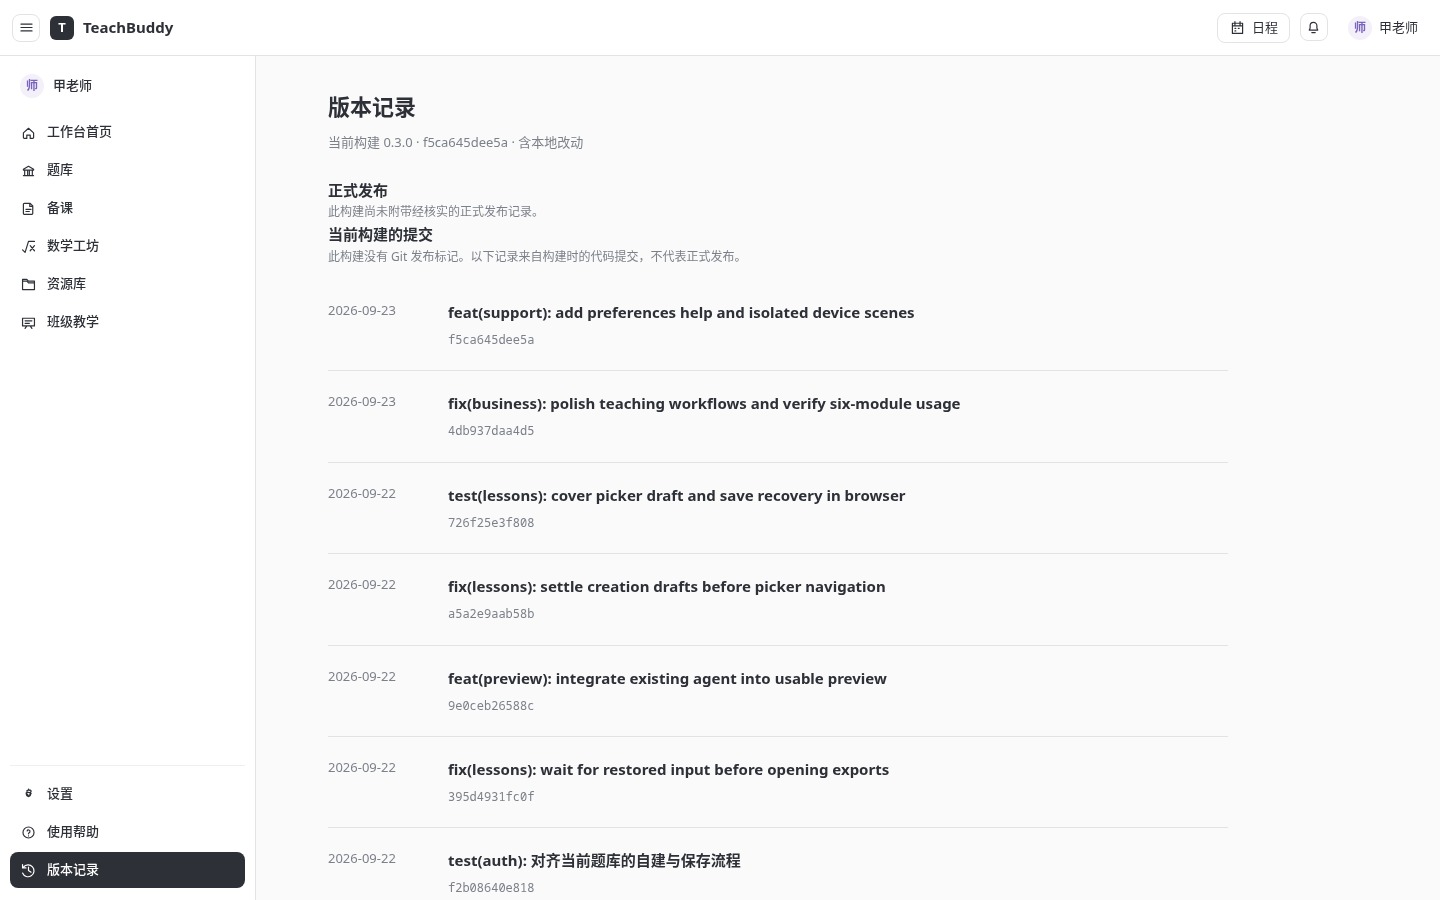
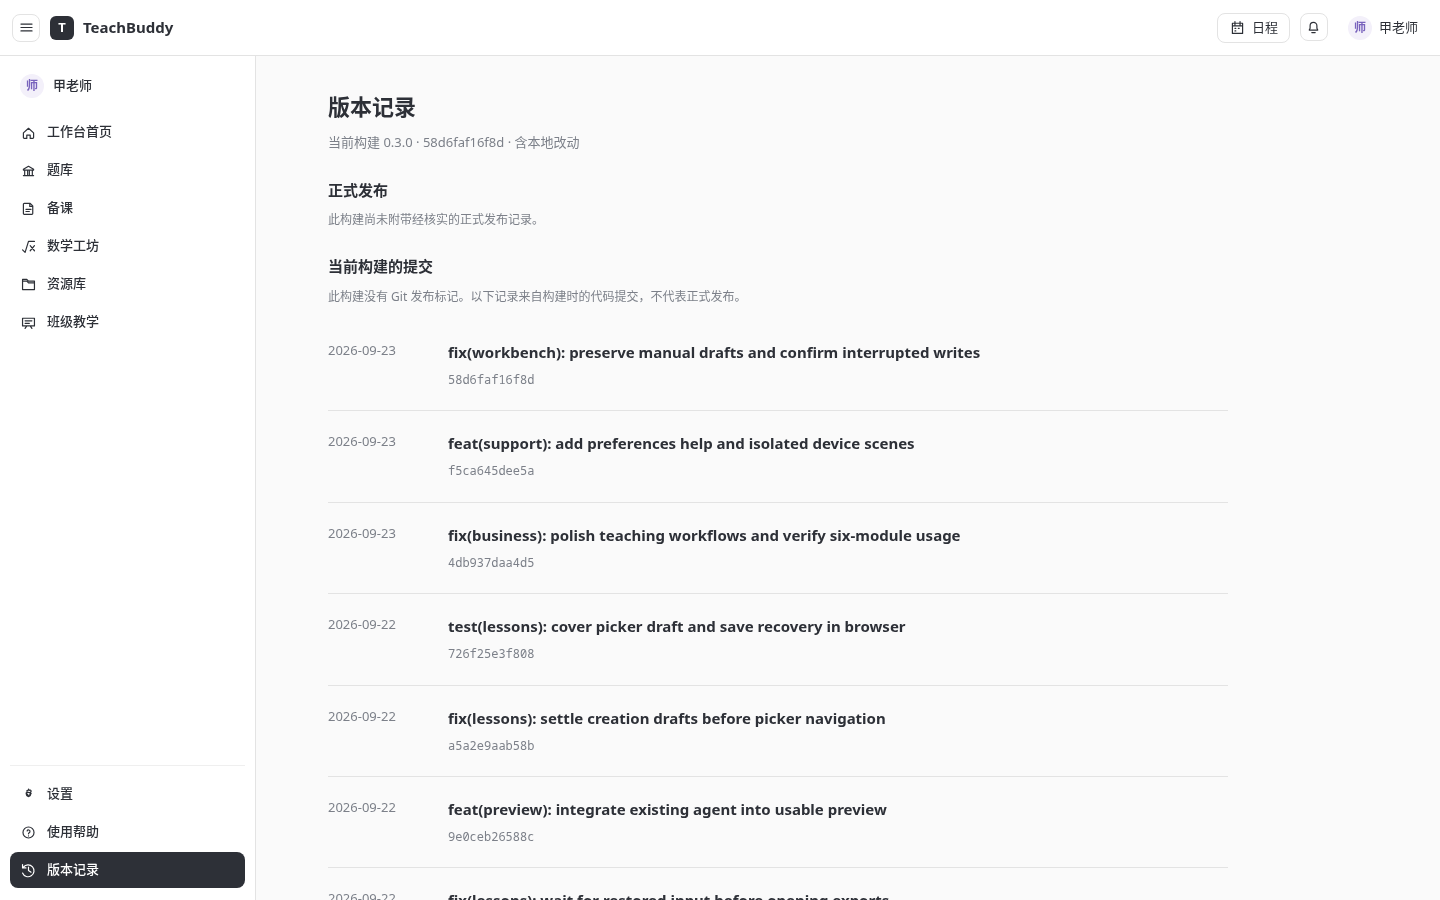
fix(workbench): refresh foreground views without replacing local edits

diff --git a/apps/web/e2e/manual-support/support.spec.js b/apps/web/e2e/manual-support/support.spec.js
@@ -415,3 +415,28 @@ test('数学 HTML 上传重开后校验原文件并以原键确认', async ({ pa
   await expect(page.getByLabel('作品名称')).toHaveValue('课堂演示.html');
   await expect(page.getByRole('button', { name: '重选原文件并确认上传' })).toHaveCount(0);
 });
+
+test('返回备课标签页读取最新内容，有本地修改时只显示对照', async ({ page, context }) => {
+  await page.getByRole('link', { name: '备课', exact: true }).click();
+  await page.getByRole('button', { name: '新建备课', exact: true }).click();
+  await page.getByLabel('课题', { exact: true }).fill('前台刷新基线');
+  await page.getByRole('button', { name: '保存', exact: true }).click();
+  await expect(page.locator('[data-save-status]')).toContainText('已保存');
+  const second = await context.newPage(); await second.goto(page.url());
+  await second.getByLabel('课题', { exact: true }).fill('另一标签的第一版');
+  await second.getByRole('button', { name: '保存', exact: true }).click();
+  await expect(second.locator('[data-save-status]')).toContainText('已保存');
+  await page.bringToFront();
+  await page.evaluate(() => window.dispatchEvent(new Event('focus')));
+  await expect(page.getByLabel('课题', { exact: true })).toHaveValue('另一标签的第一版');
+  await page.getByLabel('课题', { exact: true }).fill('当前标签未保存稿');
+  await second.bringToFront();
+  await second.getByLabel('课题', { exact: true }).fill('另一标签的第二版');
+  await second.getByRole('button', { name: '保存', exact: true }).click();
+  await expect(second.locator('[data-save-status]')).toContainText('已保存');
+  await page.bringToFront();
+  await page.evaluate(() => window.dispatchEvent(new Event('focus')));
+  await expect(page.getByLabel('课题', { exact: true })).toHaveValue('当前标签未保存稿');
+  await expect(page.locator('[data-region="conflict"]')).toBeVisible();
+  await second.close();
+});

diff --git a/apps/web/src/features/schedule/index.jsx b/apps/web/src/features/schedule/index.jsx
@@ -1,4 +1,5 @@
 import { useIdempotentSubmit } from '../workbench/useIdempotentSubmit.js';
+import { useForegroundRefresh } from '../workbench/useForegroundRefresh.js';
 /**
  * Schedule module entry: the single top-level 日程 page.
  *
@@ -357,7 +358,7 @@ export default function SchedulePage({ route }) {
     openEditor(editorState({ mode: 'create', drafts: { group: draft, instance: null } }));
   }
 
-  async function openEntry(entryId, originDate = null) {
+  async function openEntry(entryId, originDate = null, background = false) {
     try {
       const entry = await api.getEntry(entryId);
       let content = null;
@@ -381,6 +382,7 @@ export default function SchedulePage({ route }) {
       const instanceDraft = originDate === null
         ? null
         : draftFromContent({ ...base, content, weekly: false });
+      if (!alive.current || (background && (editorRef.current?.entryId !== entryId || editorRef.current?.pending || saveRunning.current))) return;
       openEditor(editorState({
         mode: 'entry',
         entryId,
@@ -393,7 +395,7 @@ export default function SchedulePage({ route }) {
         drafts: { group: groupDraft, instance: instanceDraft },
         baseline: { group: groupDraft, instance: instanceDraft }
       }));
-      if (shell.openPanel) {
+      if (!background && shell.openPanel) {
         shell.openPanel('schedule');
         shell.setPanelMode?.('schedule');
       }
@@ -401,6 +403,13 @@ export default function SchedulePage({ route }) {
       setError(problem.problem ?? { message: '安排读取失败' });
     }
   }
+
+  useForegroundRefresh(async () => {
+    if (!alive.current || saveRunning.current) return;
+    reload();
+    const current = editorRef.current;
+    if (current?.entryId && !current.pending) await openEntry(current.entryId, current.originDate, true);
+  });
 
   useEffect(() => {
     const query = new URLSearchParams(route?.search ?? '');

diff --git a/apps/web/src/features/math/index.jsx b/apps/web/src/features/math/index.jsx
@@ -5,6 +5,7 @@ import { ShellContext } from "../workbench/shellContext.js";
 import { MathTools, MathIntegration } from "./Integration.jsx";
 import { uploadDraft } from "./uploadDraft.js";
 import { reselectDeviceFile } from '../workbench/deviceRequestStore.js';
+import { useForegroundRefresh } from '../workbench/useForegroundRefresh.js';
 import DynamicPreview from "./DynamicPreview.jsx";
 import DynamicTools from "./DynamicTools.jsx";
 import HtmlEditor from "./HtmlEditor.jsx";
@@ -347,6 +348,8 @@ function MathSession({ transport, route }) {
     }
   }
   const inFlight = useRef(null);
+  const liveSave = useRef({ pending, status });
+  liveSave.current = { pending, status };
   const generation = useRef(0),
     draftRef = useRef(draft);
   draftRef.current = draft;
@@ -447,6 +450,18 @@ function MathSession({ transport, route }) {
       if (epoch === generation.current) handleError(e);
     }
   }
+  useForegroundRefresh(async () => {
+    if (!account || locked || inFlight.current) return;
+    const started = draftRef.current;
+    const epoch = generation.current;
+    await refresh();
+    if (!started?.id) return;
+    const saved = await mathRequest(`${base}/${started.id}`);
+    if (epoch !== generation.current || draftRef.current !== started || inFlight.current || liveSave.current.pending) return;
+    if (saved.version === started.version) return;
+    if (liveSave.current.status === '已保存') setDraft(saved);
+    else { setConflict(saved); setMessage('服务器内容已变化，本地稿保留，请对照当前版本'); }
+  });
   useEffect(() => {
     if (account) refresh();
   }, [search, deleted, account]);

diff --git a/apps/web/src/features/questions/MaterialsQuestionsPage.jsx b/apps/web/src/features/questions/MaterialsQuestionsPage.jsx
@@ -3,6 +3,7 @@ import React, { useEffect, useRef, useState } from "react";
 import { questionDocuments, supportedDocument } from "@refatos/shared";
 import { DocumentEditor, DocumentView } from "../workbench/materials/index.js";
 import { readLocal, writeLocal, removeLocal } from "../workbench/storage.js";
+import { useForegroundRefresh } from '../workbench/useForegroundRefresh.js';
 import {
   get,
   write,
@@ -138,6 +139,20 @@ export default function MaterialsQuestionsPage({
   const editorRef = useRef(null);
   editorRef.current = {value, scene, localKey};
   const refreshSequence = useRef(0);
+  const viewRef = useRef({ scene, value, busy });
+  viewRef.current = { scene, value, busy };
+  useForegroundRefresh(async () => {
+    if (viewRef.current.busy || pending.current) return;
+    const started = viewRef.current;
+    await refresh();
+    if (!started.scene.id) return;
+    const server = await get(`/${started.scene.kind === 'import' ? 'imports' : 'items'}/${started.scene.id}`);
+    const current = viewRef.current;
+    if (!alive.current || current.busy || pending.current || current.scene.id !== started.scene.id || current.scene.kind !== started.scene.kind) return;
+    const draft = readLocal(accountKey, localKey);
+    if (!draft) setValue(server);
+    else if (draft.version !== server.version) setConflict(server);
+  });
   const change = (next) => {
     setValue(next);
     writeLocal(accountKey, localKey, next);

diff --git a/apps/web/src/features/workbench/workbench.css b/apps/web/src/features/workbench/workbench.css
@@ -1737,7 +1737,8 @@
 .wb-help-article ol { margin: 20px 0; padding-left: 22px; }
 .wb-help-article li { margin-bottom: 18px; line-height: 1.8; }
 .wb-release-list { padding: 0; list-style: none; max-width: 900px; }
-.wb-release-list li { display: grid; grid-template-columns: 100px minmax(0, 1fr); gap: 20px; padding: 20px 0; border-bottom: 1px solid var(--wb-line); }
+.wb-releases > h2 { margin: 24px 0 8px; }
+.wb-release-list > li { display: grid; grid-template-columns: 100px minmax(0, 1fr); gap: 20px; padding: 20px 0; border-bottom: 1px solid var(--wb-line); }
 .wb-release-list h2 { overflow-wrap: anywhere; line-height: 1.6; }
 .wb-release-list code { display: inline-block; margin-top: 6px; color: var(--wb-muted); font-size: 12px; }
 .wb-shell[data-reading-size="large"] .wb-main { font-size: 16px; }
@@ -1749,7 +1750,7 @@
   .wb-help-layout { grid-template-columns: minmax(0, 1fr); gap: 24px; }
   .wb-help nav { display: grid; grid-template-columns: repeat(2, minmax(0, 1fr)); }
   .wb-help-article { overflow: visible; }
-  .wb-release-list li { grid-template-columns: minmax(0, 1fr); gap: 6px; }
+  .wb-release-list > li { grid-template-columns: minmax(0, 1fr); gap: 6px; }
 }
 .wb-shell label.wb-setting-row { display: grid; grid-template-columns: minmax(0, 1fr) 180px; color: var(--wb-text); font-size: 13px; font-weight: 400; }
 .wb-shell label.wb-setting-row > span { color: inherit; }

diff --git a/apps/web/src/features/classes/ClassDetail.jsx b/apps/web/src/features/classes/ClassDetail.jsx
@@ -33,9 +33,9 @@ export function ClassDetail({
   detailScrollTop,
   onDetailScrollTop
 }) {
-  const [renameScene, patchRename] = useScene(accountKey, `class-rename:${classroom.id}`, { renaming: false, name: classroom.name });
+  const [renameScene, patchRename] = useScene(accountKey, `class-rename:${classroom.id}`, { renaming: false, name: classroom.name, baseVersion: classroom.version });
   const { renaming, name } = renameScene;
-  const setRenaming = value => patchRename({ renaming: value });
+  const setRenaming = value => patchRename({ renaming: value, ...(value ? { baseVersion: classroom.version } : {}) });
   const setName = value => patchRename({ name: value });
   const [confirmingDelete, setConfirmingDelete] = useState(false);
   const renamed = useIdempotentSubmit({ accountKey, name: `pending:class-rename:${classroom.id}` });
@@ -66,7 +66,7 @@ export function ClassDetail({
 
   async function saveName() {
     if (name.trim() === '') return;
-    const payload = { expectedVersion: classroom.version, name };
+    const payload = { expectedVersion: renameScene.baseVersion, name };
     const result = await renamed.submit(
       ({ key, payload: body }) => updateClass({ key, id: classroom.id, payload: body }),
       payload

diff --git a/apps/web/src/features/lessons/index.jsx b/apps/web/src/features/lessons/index.jsx
@@ -3,6 +3,7 @@
 import { useEffect, useRef, useState } from 'react';
 import { useWorkbenchShell } from '../workbench/shellContext.js';
 import { useScene } from '../workbench/useScene.js';
+import { useForegroundRefresh } from '../workbench/useForegroundRefresh.js';
 import { listLocalNames } from '../workbench/storage.js';
 import { navigate } from '../workbench/routes.js';
 import { Icon } from '../workbench/icons.jsx';
@@ -19,6 +20,7 @@ function LessonsIndex() {
   const [error, setError] = useState(null);
   const [reloadToken, setReloadToken] = useState(0);
   const order = useLessonOrder(() => setReloadToken(token => token + 1));
+  useForegroundRefresh(() => setReloadToken(value => value + 1));
   const [hasDraft, setHasDraft] = useState(() => listLocalNames(shell.accountKey).includes('draft:lesson:new'));
   const seqRef = useRef(0);
   const scroll = useScrollRestore(scene.listScrollTop || 0, (top) => patchScene({ listScrollTop: top }), items.length);

diff --git a/apps/web/src/features/workbench/useForegroundRefresh.js b/apps/web/src/features/workbench/useForegroundRefresh.js
@@ -1,0 +1,23 @@
+import { useEffect, useRef } from 'react';
+
+/** Re-read when the teacher returns to this page. Each caller decides whether
+ * fresh content may replace the view or must remain a comparison candidate. */
+export function useForegroundRefresh(refresh) {
+  const current = useRef(refresh);
+  current.current = refresh;
+  useEffect(() => {
+    let running = false;
+    const onReturn = async () => {
+      if (running || document.visibilityState !== 'visible') return;
+      running = true;
+      try { await current.current(); } catch { /* Keep the existing view on a failed background read. */ }
+      finally { running = false; }
+    };
+    window.addEventListener('focus', onReturn);
+    document.addEventListener('visibilitychange', onReturn);
+    return () => {
+      window.removeEventListener('focus', onReturn);
+      document.removeEventListener('visibilitychange', onReturn);
+    };
+  }, []);
+}

diff --git a/apps/web/src/features/workbench/usePreferences.js b/apps/web/src/features/workbench/usePreferences.js
@@ -1,4 +1,3 @@
-import { useEffect, useRef } from 'react';
 import { workbenchGet, workbenchPut } from './apiClient.js';
 import { useSavableDocument } from './useSavableDocument.js';
 const path = '/api/reliability/v1/preferences';
@@ -10,15 +9,5 @@ export function usePreferences(accountKey, generation) {
     inputFromObject: value => value.values,
     buildUpdate: (values, baseline) => ({ baseVersion: baseline.version, values })
   });
-  const current = useRef(preferences);
-  current.current = preferences;
-  useEffect(() => {
-    const refresh = () => {
-      if (document.visibilityState === 'visible') current.current.refreshServer();
-    };
-    window.addEventListener('focus', refresh);
-    document.addEventListener('visibilitychange', refresh);
-    return () => { window.removeEventListener('focus', refresh); document.removeEventListener('visibilitychange', refresh); };
-  }, []);
   return preferences;
 }

diff --git a/apps/web/src/features/classes/index.jsx b/apps/web/src/features/classes/index.jsx
@@ -10,6 +10,7 @@
 import { useCallback, useEffect, useState } from 'react';
 import { useWorkbenchShell } from '../workbench/shellContext.js';
 import { useScene } from '../workbench/useScene.js';
+import { useForegroundRefresh } from '../workbench/useForegroundRefresh.js';
 import { navigate } from '../workbench/routes.js';
 import { Icon } from '../workbench/icons.jsx';
 import { listClasses, listRecords } from './api.js';
@@ -79,6 +80,7 @@ export default function ClassesPage({ route, timeZone = DEFAULT_TIME_ZONE } = {}
   const [recordsStatus, setRecordsStatus] = useState('idle');
   const [recordsError, setRecordsError] = useState(null);
   const [recordReload, setRecordReload] = useState(0);
+  useForegroundRefresh(() => { setClassReload(value => value + 1); setRecordReload(value => value + 1); });
 
   useEffect(() => {
     let cancelled = false;

diff --git a/apps/web/src/features/resources/index.jsx b/apps/web/src/features/resources/index.jsx
@@ -1,6 +1,7 @@
 import React, { useEffect, useMemo, useRef, useState } from "react";
 import { useWorkbenchShell } from "../workbench/shellContext.js";
 import { useScene } from "../workbench/useScene.js";
+import { useForegroundRefresh } from '../workbench/useForegroundRefresh.js';
 import { createResourcesClient, pendingStore } from "./client.js";
 import { reselectDeviceFile } from '../workbench/deviceRequestStore.js';
 import { FileImage, Preview } from "./Preview.jsx";
@@ -88,6 +89,7 @@ function ResourceWorkspace({
     pendingRef = useRef(null),
     busyRef = useRef(false);
   const refresh = () => setRevision((n) => n + 1);
+  useForegroundRefresh(() => { if (!busyRef.current && !controller.signal.aborted) refresh(); });
   useEffect(() => {
     pendingStore(shell.accountKey)
       .then((value) => {

diff --git a/apps/web/src/features/workbench/useSavableDocument.js b/apps/web/src/features/workbench/useSavableDocument.js
@@ -13,6 +13,7 @@
 
 import { useCallback, useEffect, useRef, useState } from 'react';
 import { readLocal, removeLocal, writeLocal } from './storage.js';
+import { useForegroundRefresh } from './useForegroundRefresh.js';
 import { unconfirmedProblem } from './problems.js';
 import { keepsDraft, isSettled } from './saveStates.js';
 import { newRequestKey } from './uuid.js';
@@ -409,6 +410,8 @@ export function useSavableDocument({
       return object;
     } catch { return null; }
   }, [commit]);
+
+  useForegroundRefresh(() => enabled && stateRef.current.baseline ? refreshServer() : null);
 
   return {
     ...state,
